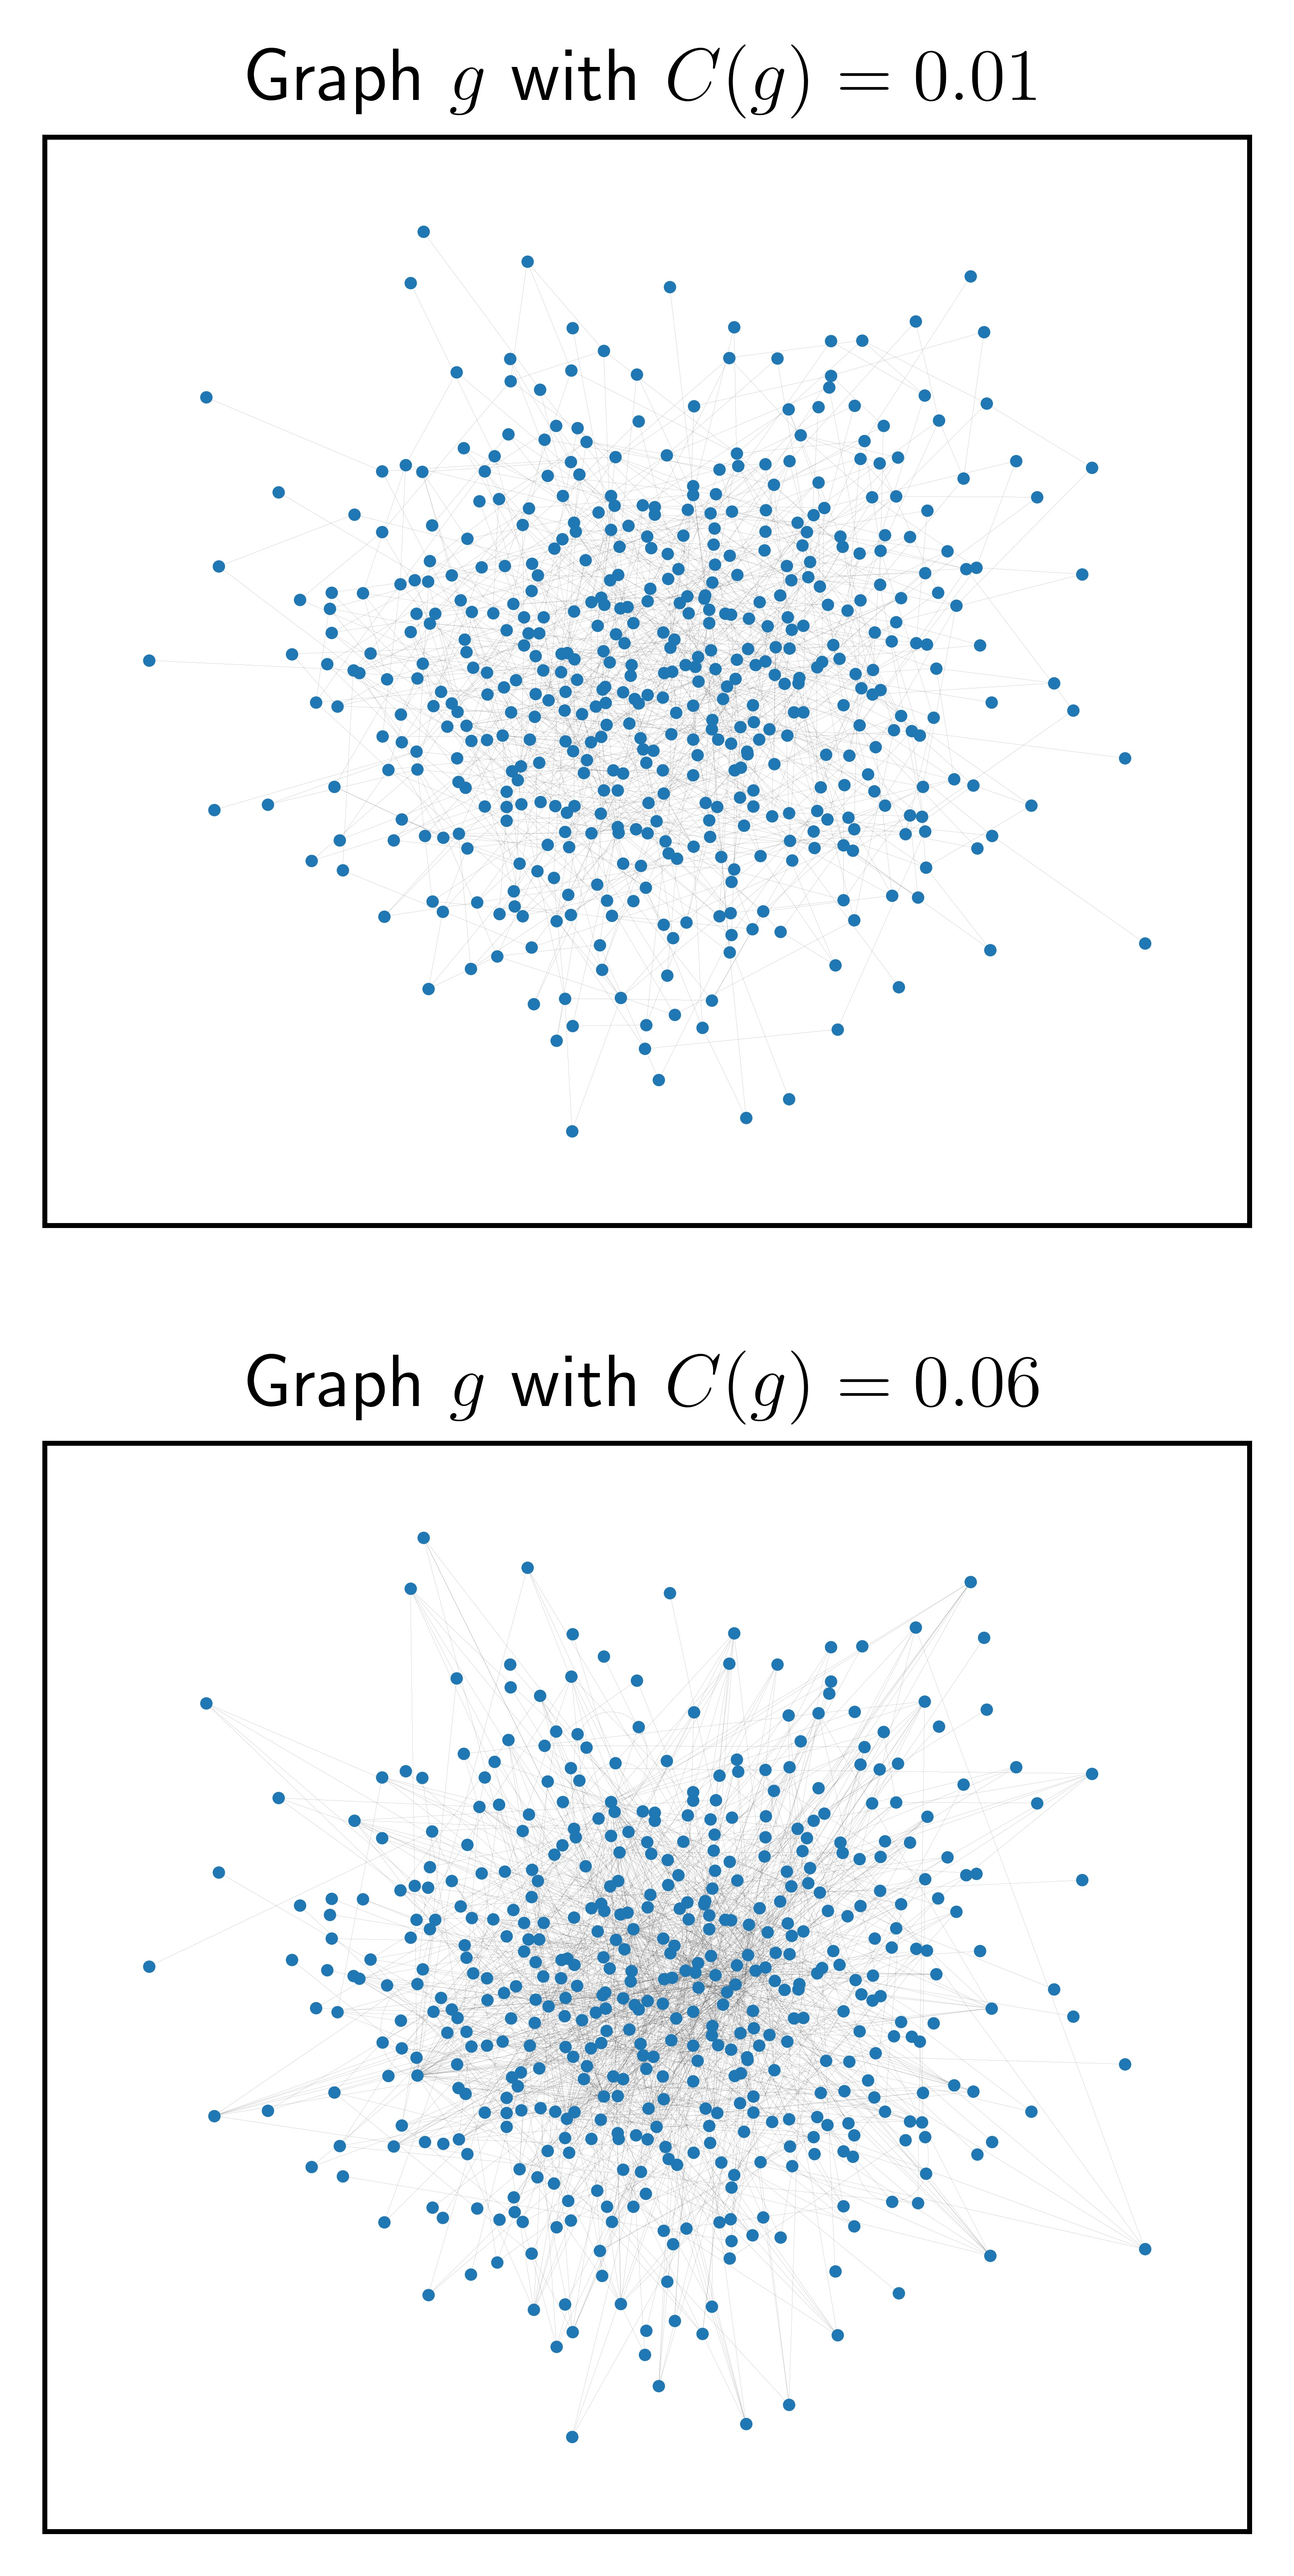
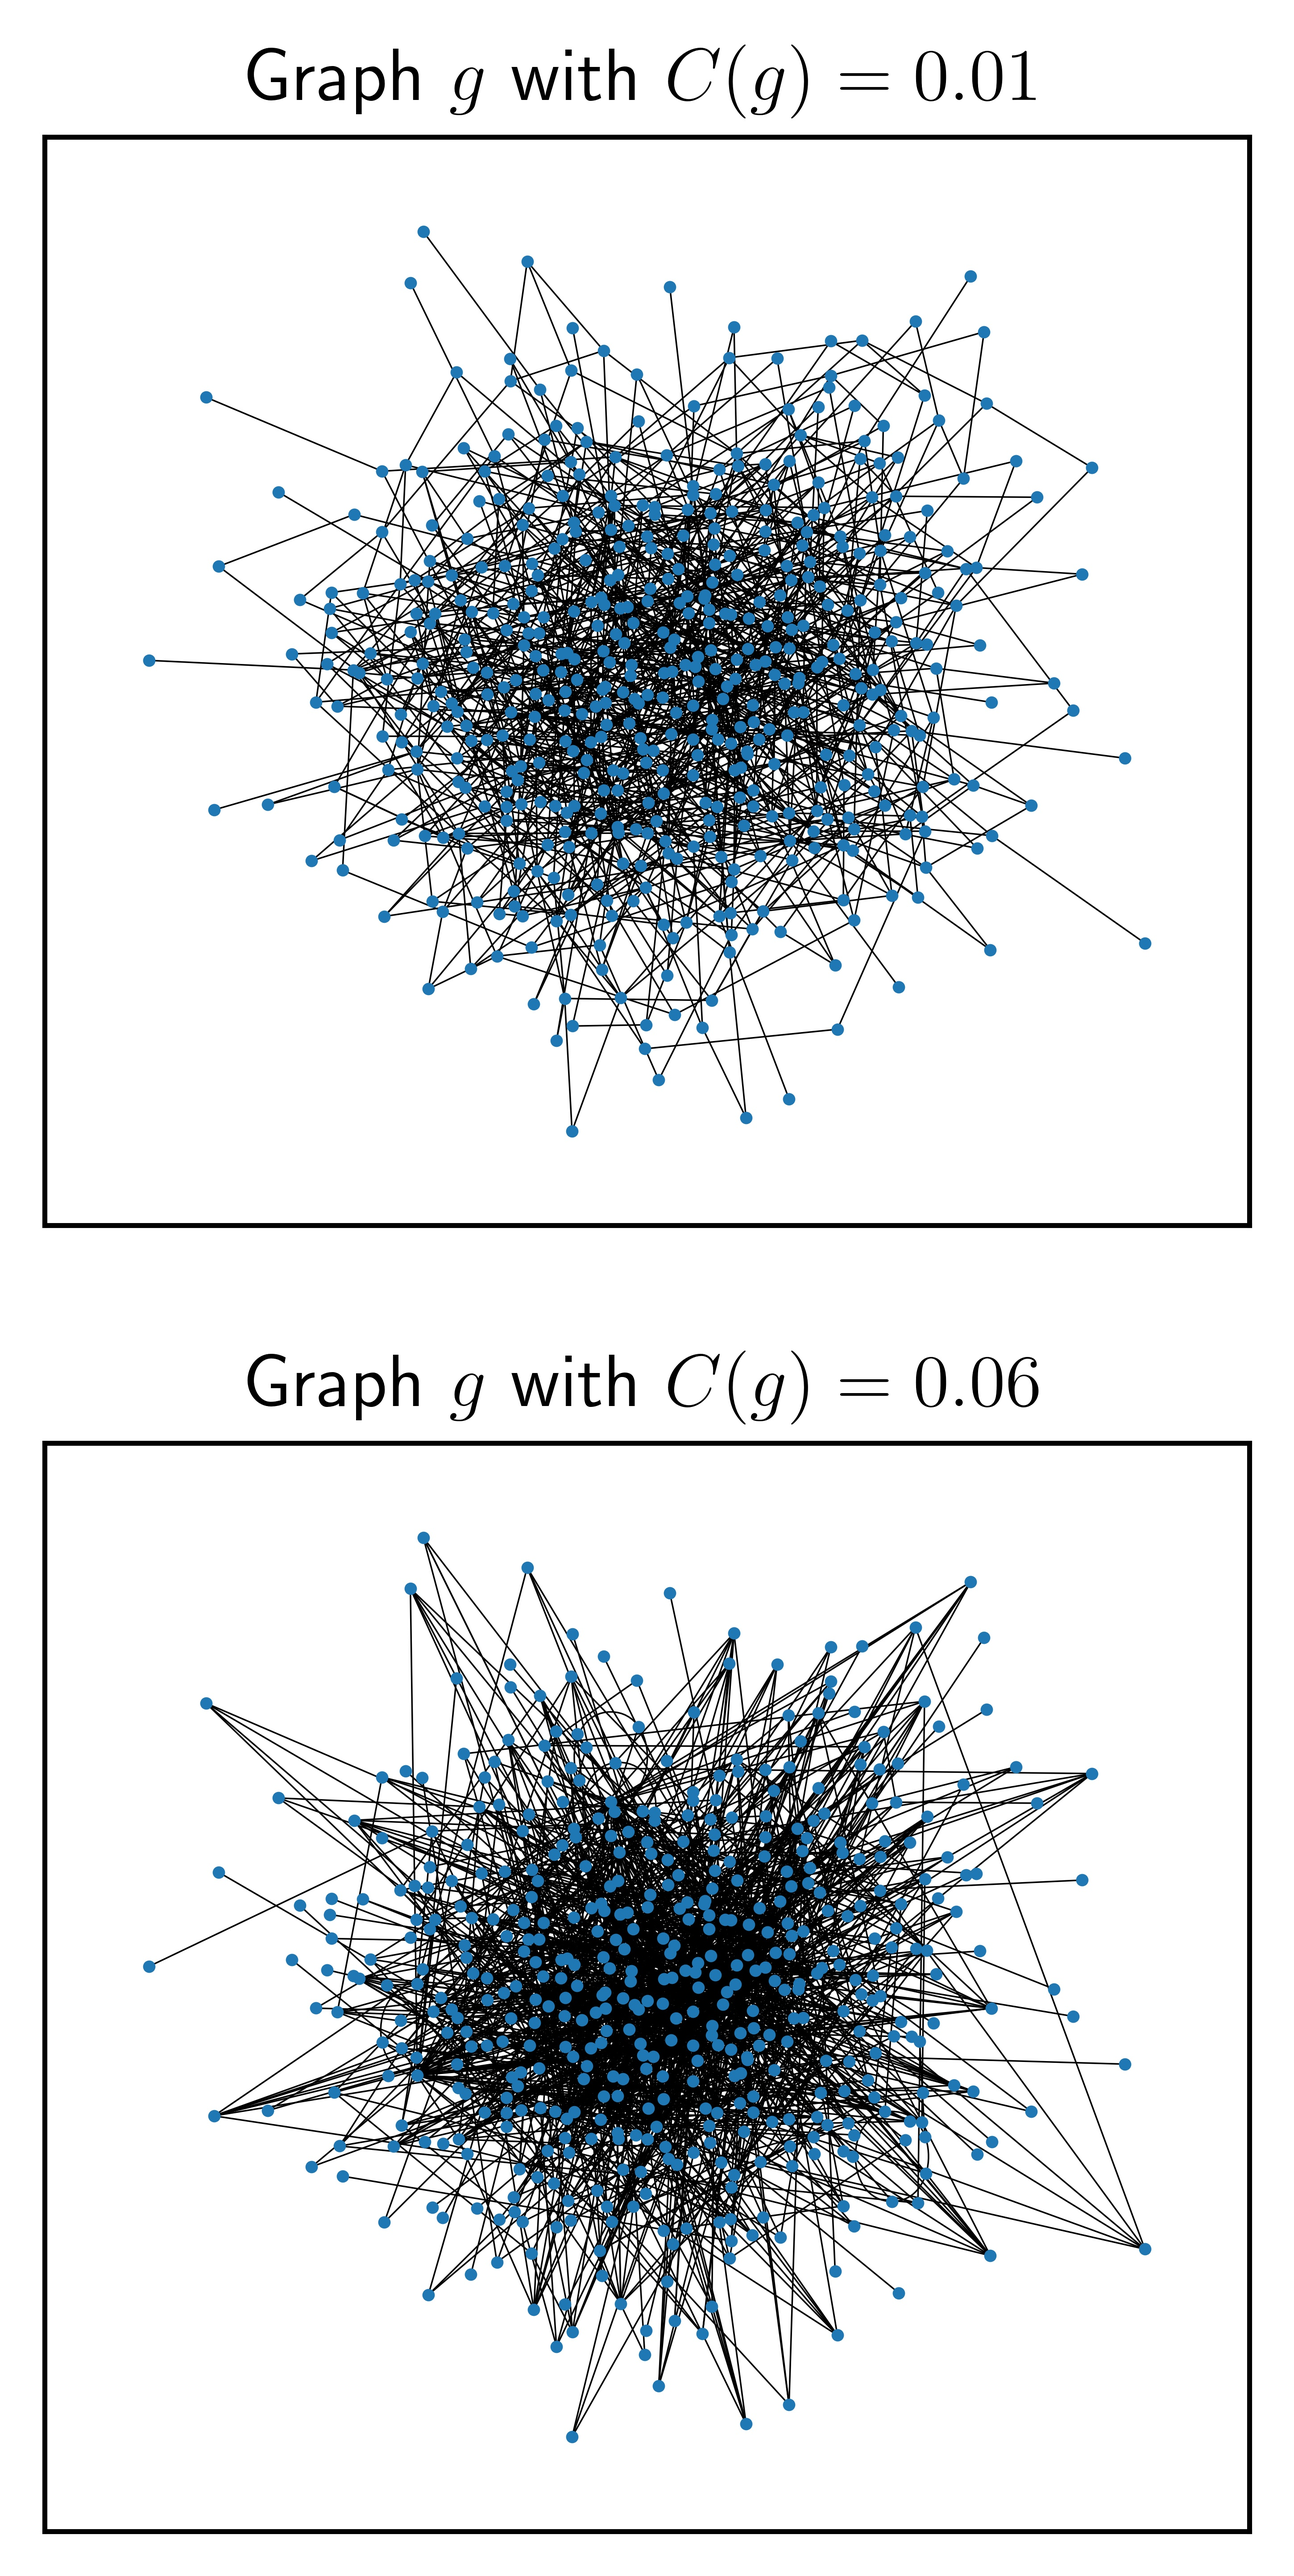
fixed network vis output

diff --git a/Experiments/Paper/6_clustering_vis.py b/Experiments/Paper/6_clustering_vis.py
@@ -46,7 +46,11 @@ a = time.time()
 net1 = Net(n, p, p_i, max_t, 1, clustering_target=interval[0])
 net2 = Net(n, p, p_i, max_t, 1, clustering_target=interval[1])
 
-plt.figure(figsize=(columwidth,2*columwidth),dpi=1000)
+plt.figure(figsize=(columwidth,2*columwidth),dpi=1200)
+
+# matplotlib.rcParams['lines.antialiased'] = True
+# matplotlib.rcParams['patch.antialiased'] = True
+# matplotlib.rcParams['patch.linewidth'] = 0.01
 
 plt.subplot(211)
 net1.draw(show=False)
@@ -62,7 +66,7 @@ print(len(net2.graph.edges))
 
 # plt.show()
 
-plt.savefig(os.path.join(path, 'network_clustering_vis' + '.jpg'), bbox_inches='tight')
+plt.savefig(os.path.join(path, 'network_clustering_vis' + '.png'), bbox_inches='tight')
 
 
 b = time.time()

diff --git a/net.py b/net.py
@@ -483,7 +483,11 @@ class Net(object):
         # nx.draw(self.graph, node_color=self.colormap, pos=pos)
 
         nodes = nx.draw_networkx_nodes(self.graph, pos, node_size=1)
-        edges = nx.draw_networkx_edges(self.graph, pos, width=0.01)
+        edges = nx.draw_networkx_edges(self.graph, pos, width=0.1)
+        # cnt = plt.contourf(x, y, z)
+
+        # for c in edges.collections:
+        #     c.set_edgecolor("face")
 
         if show:
                 plt.show()
